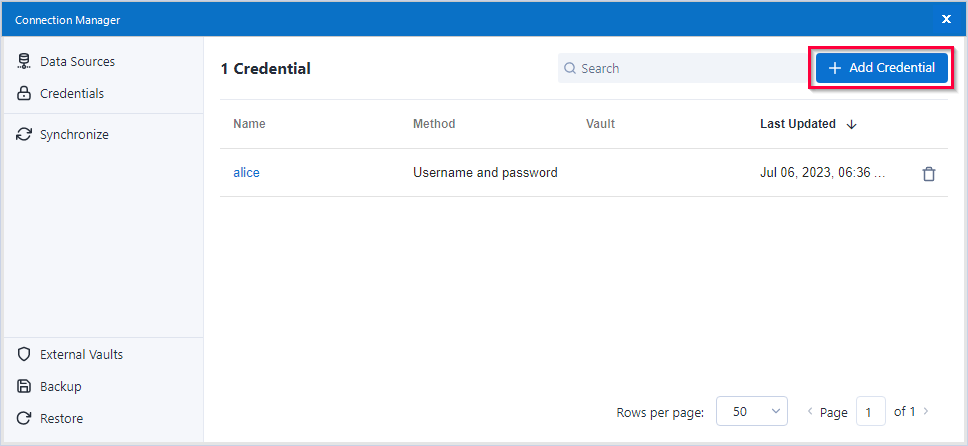
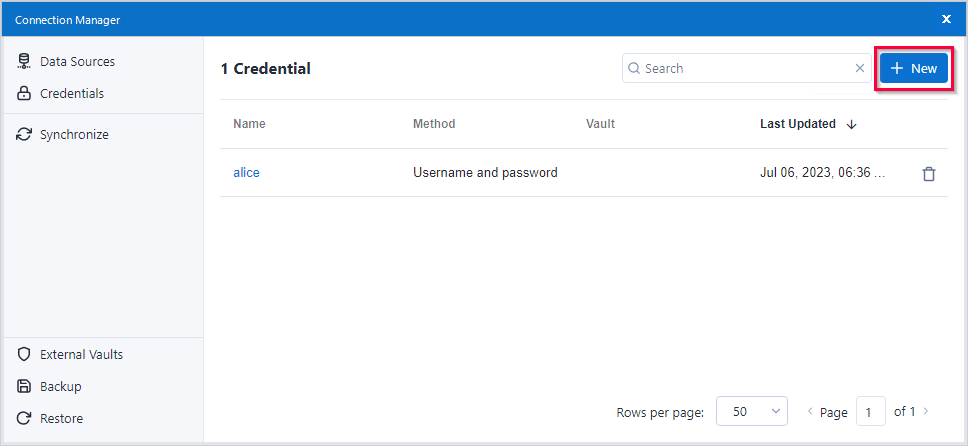
tech review

Changed region(s): [[0.8368, 0.0874, 0.9917, 0.2332], [0.5888, 0.1457, 0.7128, 0.1749]]

diff --git a/content/_en/xtract-for-alteryx/sap-connection.md b/content/_en/xtract-for-alteryx/sap-connection.md
@@ -20,93 +20,36 @@ An SAP connection is required to use any Xtract for Alteryx component.
 **Note:** The Alteryx Data Connection Manager is available as of Alteryx Designer version 2021.4. 
 If you use an older version of the Alteryx Designer, refer to the knowledge base article [Create an SAP Connection](https://kb.theobald-software.com/xtract-for-alteryx/xtract-sap-connection) to create SAP connections using the Xtract for Alteryx UI.
 
-## Credentials & Authentication
+## Xtract Data Source
 
-You can combine SAP data sources with credentials to create an SAP connection. <br>
-The credentials in the DCM include the definition of the authentication method used to connect to SAP.
+You can combine Xtract data sources with credentials to create an SAP connection. <br>
+The installation of Xtract for Alteryx includes the Xtract data source technology that connects to SAP systems.
 
-### Creating Credentials
-
-<!---
-The SAP connection for Xtract for Alteryx uses existing credentials from the Data Connection Manager.<br>
-If no credentials exist, follow the steps below to add credentials for your SAP connection:
--->
+### Creating an Xtract Data Source
 
 1. In the main menu of the Alteryx Designer navigate to **File > Manage Connections**. The window "Connection Manager" opens.
-2. In the tab *Credentials* click **[Add Credential]**.<br>
-![Credentials](/img/content/xfa/dcm/credentials.png){:class="img-responsive"}
-3. Enter a name for the credential.<br>
-![SNC-Credential](/img/content/xfa/dcm/snc.png){:class="img-responsive"}
-4. Select one of the following authentication methods: <br>
-- [*Plain*](#plain-authentication) uses the SAP username and password.
-- [*SAP SNC*](#secure-network-communication-snc) uses an encrypted connection between Xtract for Alteryx and SAP with username and password. 
-- [*SAP Ticket Issuer*](#sap-logon-ticket) uses SAP Logon-Tickets in place of user credentials. This connection is not encrypted.
-5. Enter the authentication details of your SAP user.<br>
-6. Click **[Save]** to save the credential.
-
-The credential is displayed in the list of credentials.
-
-### Plain Authentication
-
-Enter your SAP username and password.
-
-### Secure Network Communication (SNC)
-
-Secure Network Connection (SNC) enables authentication and transport encryption between SAP systems and between SAP systems and third-party tools like Xtract for Alteryx.
-
-1. Check the SAP parameter *snc/gssapi_lib* to determine which library is used for encryption in your SAP system.
-Your SAP basis has to import and configure the same library on the application server and on the machine that runs Xtract for Alteryx.
-2. When using SNC, make sure to enter the complete path of the library in the field **SNC library** e.g., ``C:\SNC\gx64krb5.dll``.
-3. Enter the SAP **Partner Name** configured for the SAP application server e.g., ``p:SAPserviceERP/do_not_care@THEOBALD.LOCAL``.
-
-For more information, see [SAP Help: Secure Network Communications (SNC)](https://help.sap.com/viewer/6f3e0bea6c4b101484fcf5305b4d624b/7.01.22/en-US/e656f466e99a11d1a5b00000e835363f.html) or refer to the knowledge base article [Enabling Secure Network Communication (SNC) via X.509 certificate](https://kb.theobald-software.com/sap/enable-snc-using-pse-file).
-
-![SNC-Credential](/img/content/xfa/dcm/snc.png){:class="img-responsive"}
-
-### SAP Logon Ticket
-
-You can use Single-Sign-On (SSO) with SAP Logon-Tickets for authentication. This connection is not encrypted.
-
-Enter the URL of an Application Server Java (AS Java) that is configured to issue logon tickets in the field **Ticket issuer**. <br>
-For more information, see [SAP Documentation: Configuring the AS Java to Issue Logon Tickets](https://help.sap.com/doc/saphelp_nw75/7.5.5/EN-US/4a/412251343f2ab1e10000000a42189c/frameset.htm).
-
-![SAP-Logon-Ticket-Credential](/img/content/xfa/dcm/logon-tickets.png){:class="img-responsive"}
-
-## SAP Data Sources
-
-You can combine SAP data sources with credentials to create an SAP connection. <br>
-The installation of Xtract for Alteryx includes the installation of data source technologies that connect to SAP.
-
-### Creating an SAP Data Source
-
-1. In the main menu of the Alteryx Designer navigate to **File > Manage Connections**. The window "Connection Manager" opens.
-2. Click **[New Data Source]**.<br>
-3. Look up and select one of the following Xtract technologies:<br>
-- *Xtract SAP Application Server* connects to SAP via a single application server.
-- *Xtract SAP Load Balancing* connects to SAP via a load balancing server.<br>
+2. In the tab *Data Sources* click **[New]** to create a new data source.<br>
+3. Select the **Xtract** technology to create an Xtract data source.
+4. Fill out the data source settings for your SAP system, see [Data Source Settings](#data-source-settings).<br>
 ![Data-Connection-Manager](/img/content/xfa/dcm/data-connection-manager.png){:class="img-responsive"}
-3. Fill out the data source settings for your SAP system, see [Data Source Settings](#data-source-settings).
-...
 4. Click **[Save]** to save the SAP connection. The subsection *Connection* is displayed.
 5. In the subsection *Connection* select one of the following authentication methods: <br>
 - [*Plain*](#plain-authentication) uses the SAP username and password.
 - [*SAP SNC*](#secure-network-communication-snc) uses an encrypted connection between Xtract for Alteryx and SAP with username and password. 
-- [*SAP Ticket Issuer*](#sap-logon-ticket) uses SAP Logon-Tickets in place of user credentials. This connection is not encrypted.
-6. Select an [existing credential](#creating-credentials) for your SAP system or click **+ Connect Credential** to create a new credential.<br>
-.gif animation of how to create new credential
-7. Click **[Save]** to save the SAP connection.
+- [*Ticket Issuer*](#sap-logon-ticket) uses SAP Logon-Tickets in place of user credentials. This connection is not encrypted.
+6. Select an [existing credential](#creating-credentials) for your SAP system or click **+ Connect Credential** to create a new credential.
+7. Click **[Link]** / **[Create and link]** to link the credential to the connection. Example:<br>
+![new-data-source](/img/content/xfa/dcm/new-data-source.gif){:class="img-responsive" style="border:1px solid black;"}
 
-The SAP connection is now available for selection in the Xtract for Alteryx components.
+The SAP connection is now available for selection in the Xtract for Alteryx components, see [Assigning an SAP Connection to an Xtract Component]().
+
 
 ### Data Source Settings
 
-An SAP data source consists of the following settings:<br>
 <!---
-![Data-Source-Settings](/img/content/xfa/dcm/data-source-settings.png){:class="img-responsive"}
+An SAP data source consists of the following settings:<br>
+![Data-Connection-Manager](/img/content/xfa/dcm/data-connection-manager.png){:class="img-responsive"}
 -->
-
-**Data Source Name**<br>
-Name of the connection.
 
 **Technology**<br>
 There are two possibilities to connect to an SAP source system:
@@ -121,6 +64,9 @@ There are two possibilities to connect to an SAP source system:
 {: .box-tip }
 **Tip:** Values to fill out the data source settings can be found in the SAP Logon Pad in the *Properties* or acquired from SAP Basis team.
 	
+**Data Source Name**<br>
+Name of the connection.
+
 **Client**<br>
 A three-digit number of the SAP client between 000 and 999, e.g., 800.
 
@@ -149,9 +95,65 @@ Clear the **Trace Directory** field when it is not needed.
 A big amount of information is collected when debug logging is activated. This can decrease the capacity of your hard drives dramatically.
 Activate the debug logging only when necessary e.g., upon request of the support team.
 
-## Assigning an SAP Connection to an Xtract component
 
-1. Drag&drop an Xtract for Alteryx component from the Alteryx Designer tool box onto the canvas (1). The configuration window of the component opens.<br>
+## Credentials & Authentication
+
+You can combine SAP data sources with credentials to create an SAP connection. <br>
+The credentials in the DCM include the definition of the authentication method used to connect to SAP.
+
+### Creating Credentials
+
+<!---
+The SAP connection for Xtract for Alteryx uses existing credentials from the Data Connection Manager.<br>
+If no credentials exist, follow the steps below to add credentials for your SAP connection:
+-->
+
+1. In the main menu of the Alteryx Designer navigate to **File > Manage Connections**. The window "Connection Manager" opens.
+2. In the tab *Credentials* click **[New]** to create a new credential.<br>
+![Credentials](/img/content/xfa/dcm/credentials.png){:class="img-responsive"}
+3. Enter a name for the credential and select one of the following authentication methods: <br>
+- [*Username and password*](#plain-authentication) uses the SAP username and password.
+- [*SAP SNC*](#secure-network-communication-snc) uses an encrypted connection between Xtract for Alteryx and SAP with username and password. 
+- [*SAP Ticket Issuer*](#sap-logon-ticket) uses SAP Logon-Tickets in place of user credentials. This connection is not encrypted.
+4. Fill out the authentication details.
+5. Click **[Save]** to save the credential.
+
+The credential is displayed in the list of credentials.
+
+{: .box-tip }
+**Tip:** You can link credentials to multiple data sources.
+
+### Plain Authentication
+
+Enter your SAP username and password.
+
+![Plain-Credential](/img/content/xfa/dcm/plain.png){:class="img-responsive"}
+
+### Secure Network Communication (SNC)
+
+Secure Network Connection (SNC) enables authentication and transport encryption between SAP systems and between SAP systems and third-party tools like Xtract for Alteryx.
+
+1. Check the SAP parameter *snc/gssapi_lib* to determine which library is used for encryption in your SAP system.
+Your SAP basis has to import and configure the same library on the application server and on the machine that runs Xtract for Alteryx.
+2. When using SNC, make sure to enter the complete path of the library in the field **SNC library** e.g., ``C:\SNC\gx64krb5.dll``.
+3. Enter the SAP **Partner Name** configured for the SAP application server e.g., ``p:SAPserviceERP/example@THEOBALD.LOCAL``.
+
+For more information, see [SAP Help: Secure Network Communications (SNC)](https://help.sap.com/viewer/6f3e0bea6c4b101484fcf5305b4d624b/7.01.22/en-US/e656f466e99a11d1a5b00000e835363f.html) or refer to the knowledge base article [Enabling Secure Network Communication (SNC) via X.509 certificate](https://kb.theobald-software.com/sap/enable-snc-using-pse-file).
+
+![SNC-Credential](/img/content/xfa/dcm/snc.png){:class="img-responsive"}
+
+### SAP Logon Ticket
+
+You can use Single-Sign-On (SSO) with SAP Logon-Tickets for authentication. This connection is not encrypted.
+
+Enter the URL of an Application Server Java (AS Java) that is configured to issue logon tickets in the field **Ticket issuer**. <br>
+For more information, see [SAP Documentation: Configuring the AS Java to Issue Logon Tickets](https://help.sap.com/doc/saphelp_nw75/7.5.5/EN-US/4a/412251343f2ab1e10000000a42189c/frameset.htm).
+
+![SAP-Logon-Ticket-Credential](/img/content/xfa/dcm/logon-tickets.png){:class="img-responsive"}
+
+## Assigning an SAP Connection to an Xtract Component
+
+1. Drag&drop an Xtract for Alteryx component from the Alteryx Designer toolbox onto the canvas (1). The configuration window of the component opens.<br>
 ![Create-New-Table-Extraction](/img/content/xfa//xfa_create_table_extraction_02.png){:class="img-responsive"}
 2. Select an SAP connection from the dropdown list (2).
 
